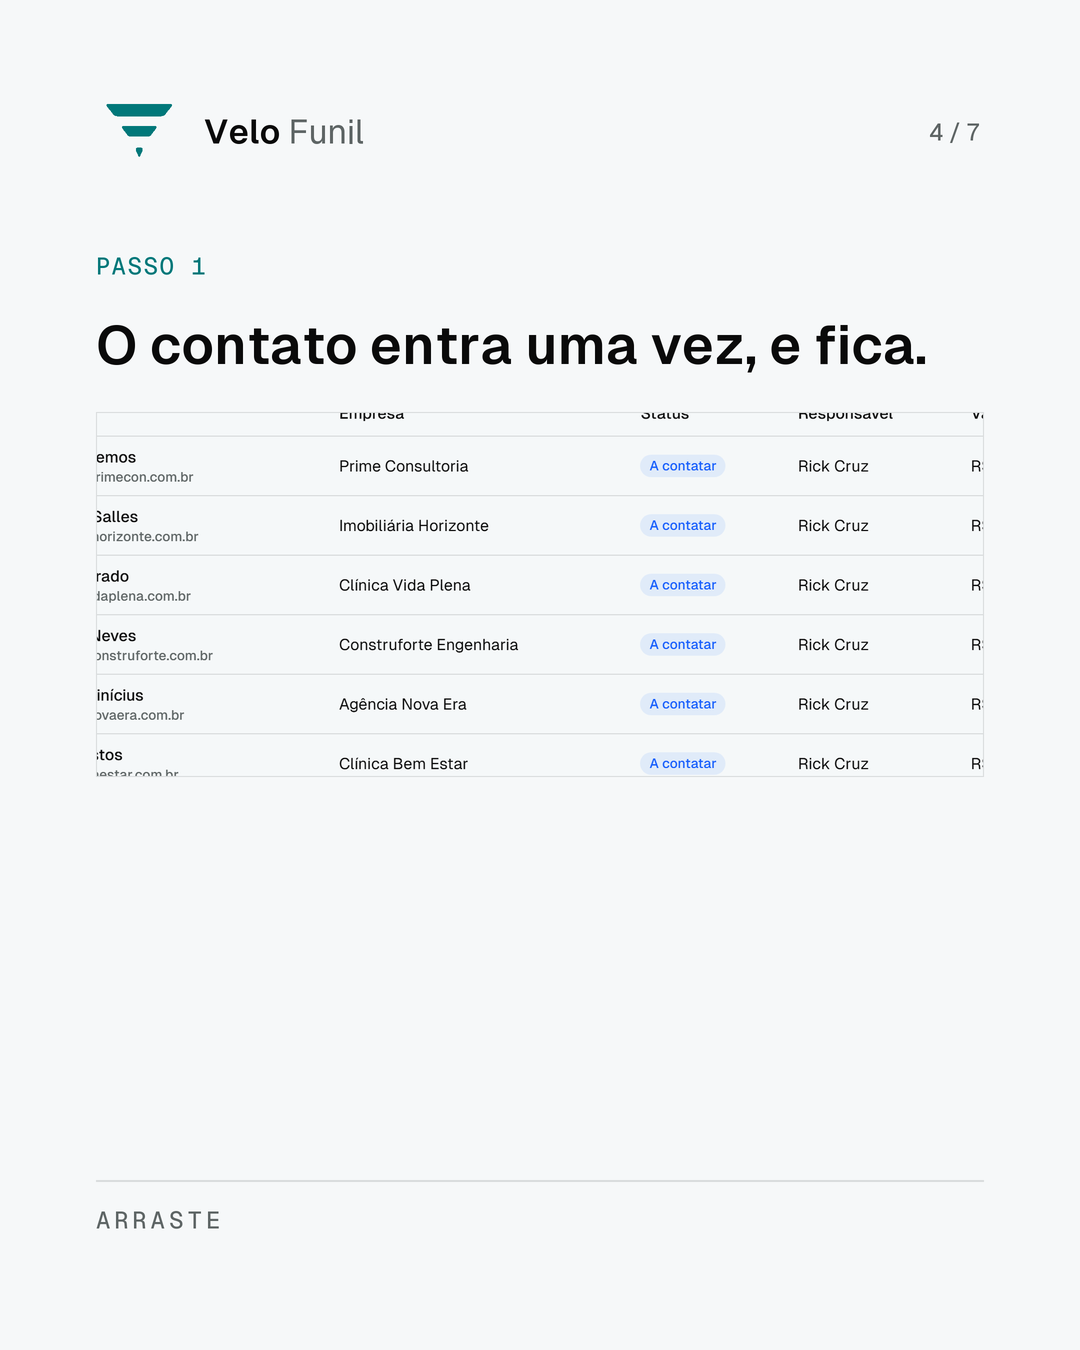
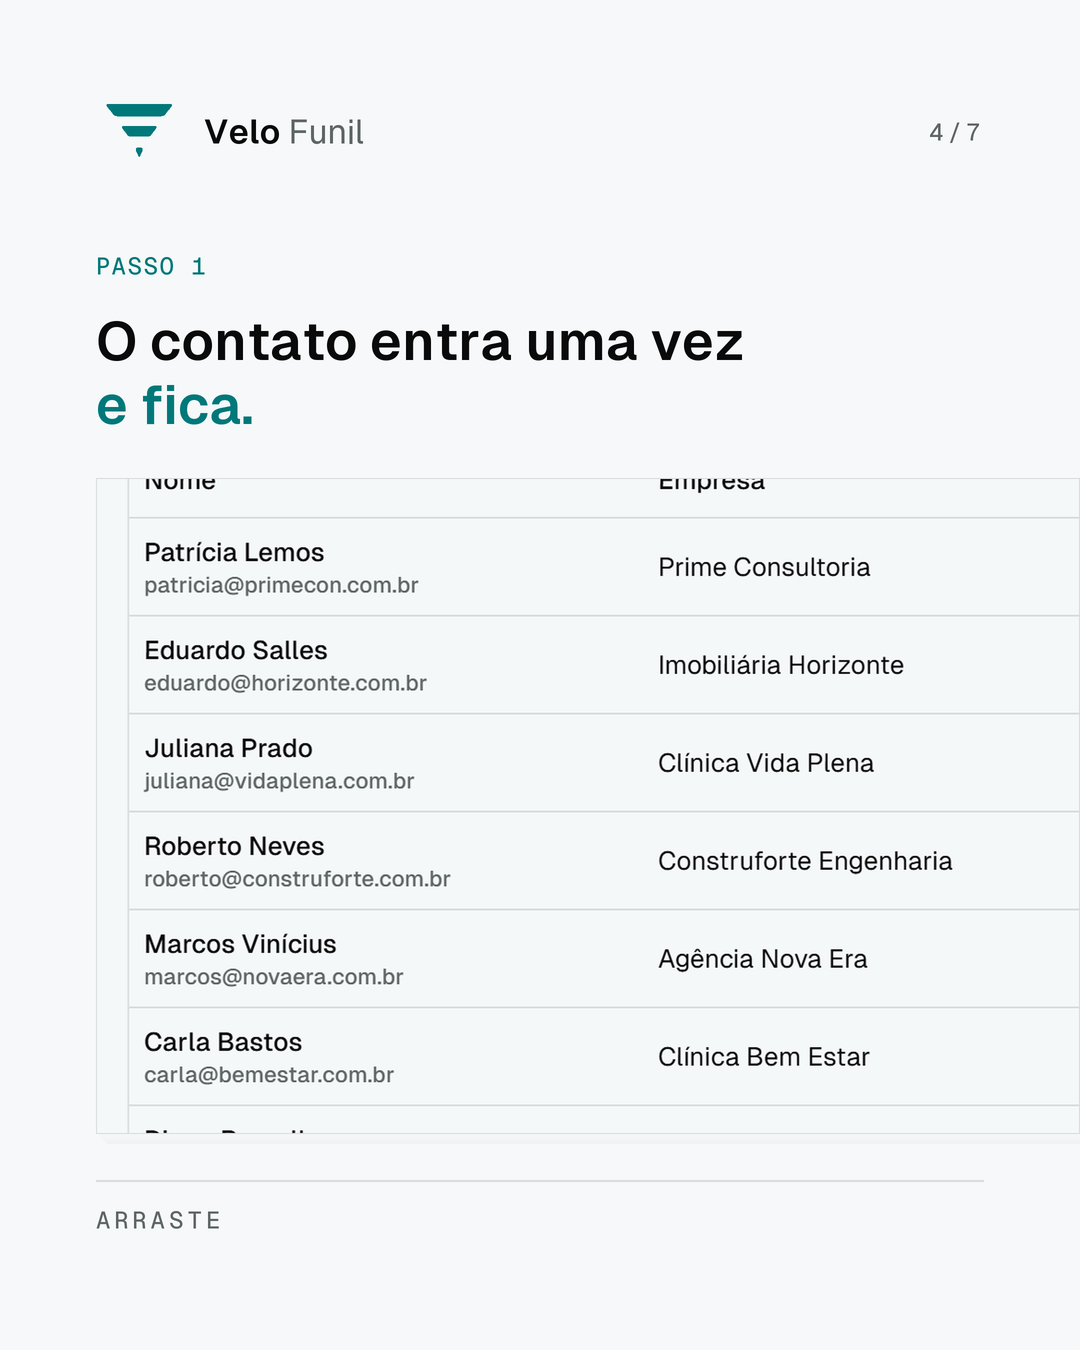
fix(marketing): a tela do produto virou o heroi da peca, nao a legenda dela
Referencia trazida pelo dono: tres posts do feed do Agendor, que e o
concorrente direto nesta categoria. Comparado com o carrossel de horas
antes, a diferenca era estrutural e nao de acabamento.

  a tela ocupava ~28% da peca      la ocupa 55 a 60%
  encostada na margem, chapada     la e um card elevado sobre o fundo
  titulo em peso unico             la uma parte da frase muda de cor

Nenhuma das tres e enfeite. A tela grande e a unica prova que um SaaS sem
cliente externo consegue mostrar. O card elevado a separa do fundo e diz
"isto e software, nao ilustracao". E a enfase cromatica carrega a leitura em
miniatura, onde a frase inteira vira mancha.

## Principios extraidos, nao arte copiada

Nada aqui repete layout, paleta ou composicao de ninguem, e a paleta segue
sendo a dos tokens do produto. O `prompt-enviado.txt` pede exatamente essa
distincao.

O selo "NOVIDADE" ficou de fora de proposito: o Agendor lanca recurso todo
mes e tem base instalada para avisar. Aqui nao ha para quem anunciar, e selo
de novidade sem ninguem do outro lado e encenacao.

## O card sangra pela direita, e nao pelos dois lados

Tela centralizada com ar dos dois lados le como print colado numa
apresentacao. Sangrando, le como software que continua fora do quadro — a
mesma decisao que `comp_produto` ja usava.

E ela PREENCHE a caixa, cortando o excedente, em vez de caber inteira dentro
dela: caber deixava faixa vazia embaixo, e vazio no MEIO da peca e o defeito
[…]

diff --git a/marketing/claude-designer/velofunil_criativos.py b/marketing/claude-designer/velofunil_criativos.py
@@ -666,49 +666,60 @@ CAPTURAS = RAIZ.parent / "artes"     # saida de scripts/marketing/capturar-catal
 
 def comp_passo(c: Tela, p: dict) -> None:
     """
-    Um passo do carrossel de demonstracao: numero, acao, captura, legenda.
+    Um passo do carrossel: a TELA e o heroi, nao a legenda dela.
 
-    ## Por que captura e nao desenho
+    ## O que mudou depois de olhar o concorrente
 
-    A peca `produto` desenha um Kanban com a tipografia da arte. Fica
-    coerente e e uma REPRESENTACAO: comparada com a tela real, nenhuma coluna
-    tem o nome certo (o desenho diz NOVO / CONVERSANDO / PROPOSTA / FECHADO,
-    o produto diz A contatar / Contato Realizado / Proposta Enviada /
-    Negociacao), nao ha valor no card, nem responsavel, nem faixa por etapa.
-    Quem visse a peca e assinasse encontraria outra tela.
+    A primeira versao punha a captura numa faixa entre o titulo e o rodape.
+    Comparada com o feed do Agendor — que e a referencia de SaaS B2B
+    brasileiro nesta categoria —, a diferenca era estrutural e nao de
+    acabamento:
 
-    O proprio designer registrou isso como a unica pendencia que nao
-    conseguia resolver sozinho. Aqui ela se resolve: `capturar-catalogo.mjs`
-    produz 36 telas reais, com cenario ficticio e limpeza no `finally`.
+      a tela ocupava ~28% da peca      la ocupa 55 a 60%
+      encostada na margem, chapada     la e um card elevado sobre o fundo
+      titulo em peso unico             la uma parte da frase muda de cor
 
-    A skill de carrossel diz o mesmo em uma linha: "mockups read as
-    vaporware".
+    Nenhuma dessas tres e enfeite. A tela grande e a unica prova que um SaaS
+    sem cliente externo consegue mostrar; o card elevado a separa do fundo e
+    diz "isto e software, nao ilustracao"; e a enfase cromatica carrega a
+    leitura em miniatura, onde a frase inteira vira mancha.
 
-    ## O recorte e por ACAO, nao pela tela inteira
+    Os principios foram extraidos, nao a arte: nada aqui copia layout,
+    paleta ou composicao de ninguem. O `prompt-enviado.txt` pede exatamente
+    isso, e a paleta continua sendo a dos tokens do produto.
 
-    Uma captura de 2880x1800 reduzida para caber num card de 1080 vira
-    mancha cinza. O `foco` recorta a regiao onde a acao acontece, em
-    coordenadas da imagem original, e so ela e ampliada. E a regra da skill:
-    cada captura precisa fazer sentido em miniatura.
+    ## O card SANGRA pela direita
+
+    Ele comeca na margem e sai pela borda. Uma tela inteira centralizada com
+    ar dos dois lados le como print colado numa apresentacao; sangrando, le
+    como software que continua fora do quadro. E a mesma decisao que
+    `comp_produto` ja usava.
     """
     pal, pad = c.pal, FEED_PAD
-    x, larg = pad["lado"], c.w - 2 * pad["lado"]
+    x, larg_texto = pad["lado"], c.w - 2 * pad["lado"]
     marca(c, p["indice"])
 
     fm = c.f("mono", "Medium", 24)
     c.texto(x, TOPO_CONTEUDO, p["rotulo"], fm, pal.destaque, 1.6)
 
-    y = TOPO_CONTEUDO + 62
-    y += c.paragrafo(x, y, p["claim"], c.f("sans", "SemiBold", 54), pal.titulo,
-                     larg, 64) + 34
-
-    # ## A moldura da captura
+    # ## A enfase entra na ULTIMA linha, e por construcao
     #
-    # Contorno de 1px na borda do registro, sem sombra: sombra longa le como
-    # cartao de marketing, e a decisao de 26/08 na landing ja tinha removido
-    # a `shadow-2xl` pelo mesmo motivo.
+    # `realce` e a parte da frase que muda de cor. Ela e escrita separada, na
+    # linha seguinte ao resto, em vez de dentro do fluxo: medir a quebra de
+    # uma frase com dois pesos exigiria um layout de texto rico que este
+    # gerador nao tem, e o resultado seria a palavra caindo em lugar
+    # imprevisivel a cada mudanca de copy.
+    y = TOPO_CONTEUDO + 58
+    fclaim = c.f("sans", "SemiBold", 54)
+    y += c.paragrafo(x, y, p["claim"], fclaim, pal.titulo, larg_texto, 64)
+    if p.get("realce"):
+        y += c.paragrafo(x, y, p["realce"], fclaim, pal.destaque, larg_texto, 64)
+    y += 40
+
     rodape_y = c.h - pad["base"] - 74
-    alt = rodape_y - 44 - y
+    alt = rodape_y - 46 - y
+    larg_card = c.w - x                       # sangra pela direita
+
     caminho = CAPTURAS / p["captura"]
     if not caminho.exists():
         raise FileNotFoundError(
@@ -717,18 +728,33 @@ def comp_passo(c: Tela, p: dict) -> None:
             "      node --env-file=.env.local scripts/marketing/capturar-catalogo.mjs")
 
     tela = Image.open(caminho).convert("RGB")
-    esq, topo, dire, base = p["foco"]
-    tela = tela.crop((esq, topo, dire, base))
+    tela = tela.crop(p["foco"])
 
-    # cabe na caixa preservando a proporcao, ancorado no topo
-    k = min(larg / tela.width, alt / tela.height)
+    # Preenche a caixa e corta o excedente, em vez de caber inteira dentro
+    # dela: caber deixava faixa vazia embaixo, e o vazio no MEIO da peca e o
+    # defeito que a auditoria da grade ja tinha reprovado.
+    k = max(larg_card / tela.width, alt / tela.height)
     lw, lh = int(tela.width * k), int(tela.height * k)
     tela = tela.resize((lw * c.ss, lh * c.ss), Image.LANCZOS)
+    tela = tela.crop((0, 0, c.u(larg_card), c.u(alt)))
+
+    # ## A sombra e curta, e so no registro claro
+    #
+    # Sobre fundo claro o contorno sozinho le como desenho, nao como
+    # profundidade. Sombra longa le como cartao de marketing — a landing
+    # removeu a `shadow-2xl` por isso em 26/08. Aqui sao 6px de deslocamento
+    # com uma faixa esmaecida, o suficiente para o card descolar do fundo.
+    if pal is CLARO:
+        for i, d in enumerate((10, 7, 4)):
+            tom = tuple(int(v - 6 + i * 2) for v in pal.fundo)
+            c.d.rectangle([c.u(x + d), c.u(y + d),
+                           c.u(x + larg_card) - 1, c.u(y + alt + d) - 1], fill=tom)
+
     c.im.paste(tela, (c.u(x), c.u(y)))
-    c.d.rectangle([c.u(x), c.u(y), c.u(x + lw) - 1, c.u(y + lh) - 1],
+    c.d.rectangle([c.u(x), c.u(y), c.u(x + larg_card) - 1, c.u(y + alt) - 1],
                   outline=pal.borda, width=max(1, c.u(1)))
 
-    c.linha_fina(x, rodape_y, larg, pal.borda, 2)
+    c.linha_fina(x, rodape_y, larg_texto, pal.borda, 2)
     c.texto(x, rodape_y + 26, p.get("rodape", "ARRASTE"),
             c.f("mono", "Medium", 24), pal.corpo, 0.16 * 24)
 
@@ -931,23 +957,26 @@ CARROSSEL_DEMO = [
     # sentido em MINIATURA, entao o recorte fecha na acao, nao na tela.
     dict(id="c4_passo1", comp="passo", pal=CLARO,
          rotulo="PASSO 1", indice="4/7", rodape="ARRASTE",
-         claim="O contato entra uma vez, e fica.",
+         claim="O contato entra uma vez",
+         realce="e fica.",
          captura="03-contatos-desktop-light.png",
-         foco=(700, 470, 2280, 1120),
+         foco=(524, 470, 2360, 1180),
          dominio=DOMAIN),
 
     dict(id="c5_passo2", comp="passo", pal=CLARO,
          rotulo="PASSO 2", indice="5/7", rodape="ARRASTE",
-         claim="O negócio ganha etapa, valor e próximo passo.",
+         claim="O negócio ganha etapa, valor",
+         realce="e próximo passo.",
          captura="02-funil-desktop-light.png",
-         foco=(760, 560, 2100, 1560),
+         foco=(600, 560, 2200, 1620),
          dominio=DOMAIN),
 
     dict(id="c6_passo3", comp="passo", pal=CLARO,
          rotulo="PASSO 3", indice="6/7", rodape="ARRASTE",
-         claim="A tela Hoje cobra o que ficou em aberto.",
+         claim="A tela Hoje cobra",
+         realce="o que ficou em aberto.",
          captura="04-hoje-desktop-light.png",
-         foco=(700, 400, 2280, 1180),
+         foco=(524, 400, 2360, 1200),
          dominio=DOMAIN),
 
     # `indice` num slide de fecho parece redundante e nao e: e ele que diz
